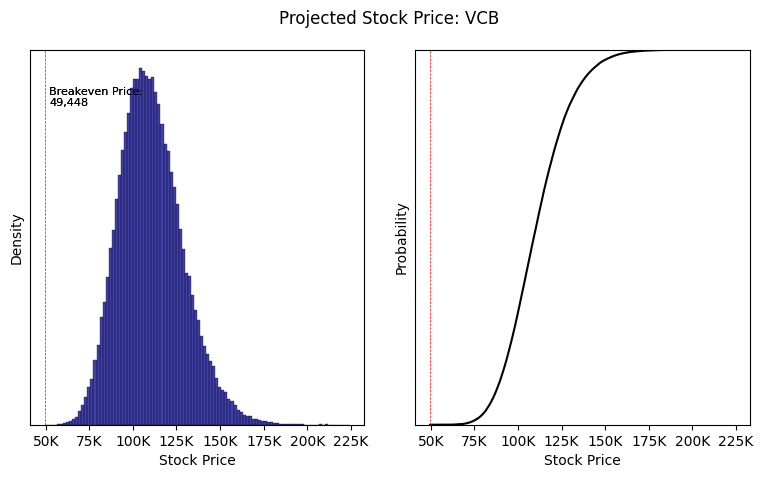
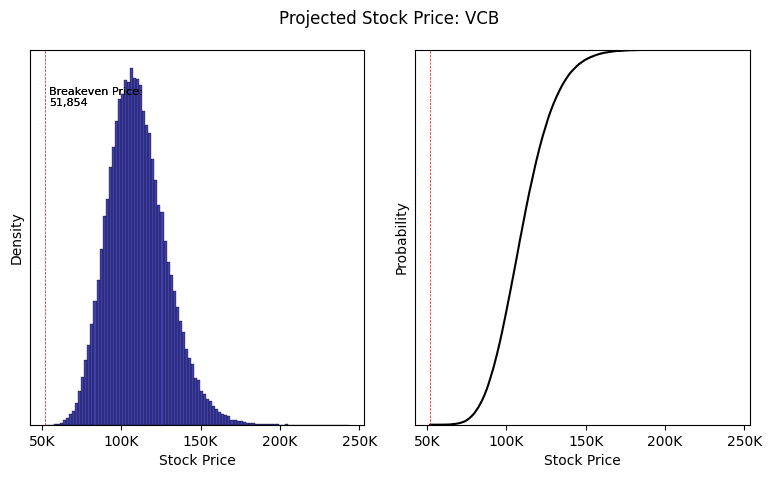
post_breakeven_price

diff --git a/breakeven_price/monte_carlo.py b/breakeven_price/monte_carlo.py
@@ -195,7 +195,7 @@ def monte_carlo(ticker, days=66, alpha=0.01,
                      / (abs(skew)**(2/3) + ((4-np.pi)/2)**(2/3)))**0.5 \
                     * np.sign(skew)
             a = theta / (1-theta**2)**0.5
-            scale = std**2/(1-2*theta**2/np.pi)
+            scale = (std**2/(1-2*theta**2/np.pi))**0.5
             loc = mean - scale*theta*(2/np.pi)**0.5
 
             logr = sc.stats.skewnorm.rvs(a, loc, scale,
@@ -263,11 +263,11 @@ def monte_carlo(ticker, days=66, alpha=0.01,
             std = np.std(df['change_logr'])
             skew = sc.stats.skew(df['change_logr'])
 
-            theta = (np.pi/2 * abs(skew)**(2/3)
-                     / (abs(skew)**(2/3) + ((4-np.pi)/2)**(2/3)))**0.5 \
+            theta = (np.pi/2 * skew**(2/3)
+                     / (skew**(2/3) + ((4-np.pi)/2)**(2/3)))**0.5 \
                     * np.sign(skew)
             a = theta / (1-theta**2)**0.5
-            scale = std**2/(1-2*theta**2/np.pi)
+            scale = (std**2/(1-2*theta**2/np.pi))**0.5
             loc = mean - scale*theta*(2/np.pi)**0.5
 
             change_logr = sc.stats.skewnorm.rvs(a, loc, scale,
